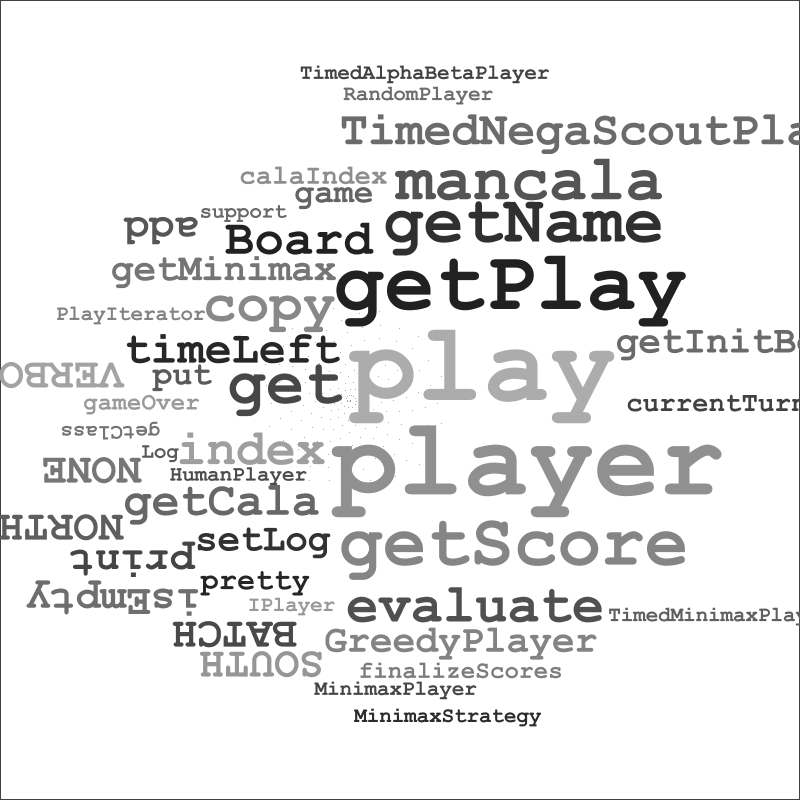
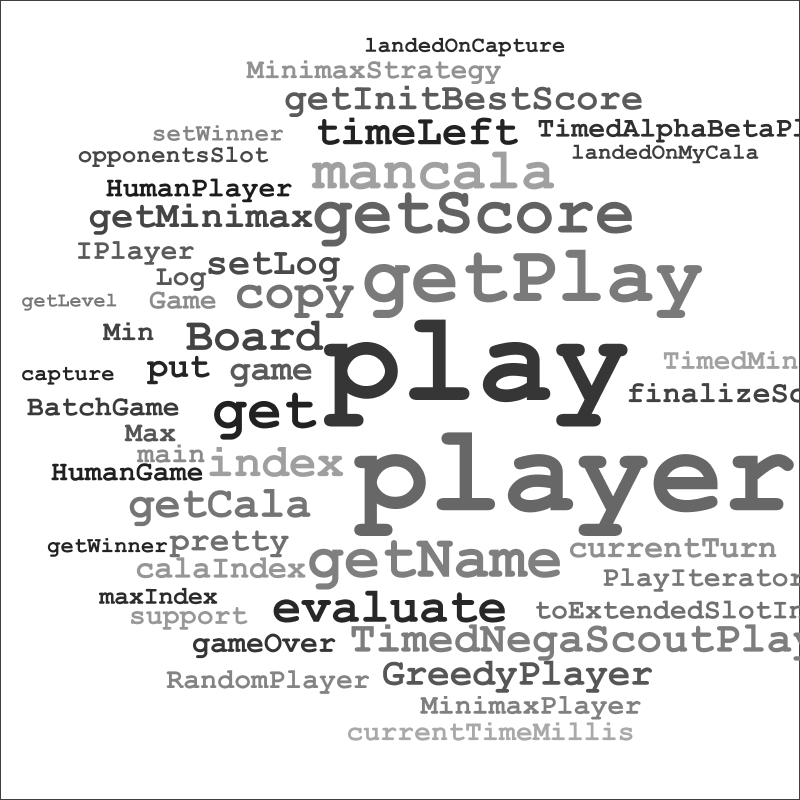
more tweaking and playing - not nearly there yet though

Changed region(s): [[0.0, 0.0312, 1.0, 0.9375]]

diff --git a/src/test/java/org/chaoticbits/collabcloud/SummarizeRepo.java b/src/test/java/org/chaoticbits/collabcloud/SummarizeRepo.java
@@ -98,25 +98,28 @@ public class SummarizeRepo {
 		for (Entry<String, Double> entry : entries) {
 			log.info("Laying out " + entry.getKey() + "...");
 			// TODO Convert weights to font sizes
-			font = font.deriveFont(30f * (float) Math.log(entry.getValue()));
+			// font = font.deriveFont(25f * (float) Math.log(entry.getValue()));
+			font = font.deriveFont(20f * (float) Math.sqrt(entry.getValue()));
 			char[] chars = entry.getKey().toCharArray();
-			GlyphVector glyph = font.layoutGlyphVector(frc, chars, 0, chars.length, Font.LAYOUT_LEFT_TO_RIGHT);
 			// TODO Need a placement strategy
 			Point2D center = getStartingPlace();
-			SpiralIterator itr = new SpiralIterator(center, 500.0d, 1000);
+			SpiralIterator itr = new SpiralIterator(center, 400.0d, 500);
 			while (itr.hasNext()) {
 				Point2D next = itr.next();
-				Shape nextShape = glyph.getOutline((float) next.getX(), (float) next.getY());
+				Shape nextShape = font.layoutGlyphVector(frc, chars, 0, chars.length, Font.LAYOUT_LEFT_TO_RIGHT).getOutline((float) next.getX(),
+						(float) next.getY());
 				if (!placedShapes.hitNCache(nextShape)) {
 					int randColor = (int) (Math.random() * 150.0f + 25.0f);
 					g2d.setTransform(transform);
-					//TODO Color it according to type and weight, not random
+					// TODO Color it according to type and weight, not random
 					g2d.setColor(new Color(randColor, randColor, randColor));
 					g2d.fill(nextShape);
 					break;
 				} else {
-					if (entry.getKey().equals("player"))
-						g2d.fillRect((int) next.getX(), (int) next.getY(), 1, 1);
+					if (entry.getKey().equals("getClass")) {
+//						 g2d.fill(nextShape);
+//						g2d.fillRect((int) next.getX(), (int) next.getY(), 3, 3);
+					}
 				}
 			}
 		}
@@ -126,7 +129,7 @@ public class SummarizeRepo {
 	}
 
 	private static java.awt.geom.Point2D.Double getStartingPlace() {
-//		return new Point2D.Double(rand.nextInt(300) + 150f, rand.nextInt(300) + 150.0f);
-		return new Point2D.Double(350,400);
+		// return new Point2D.Double(rand.nextInt(300) + 150f, rand.nextInt(300) + 150.0f);
+		return new Point2D.Double(325, 400);
 	}
 }
